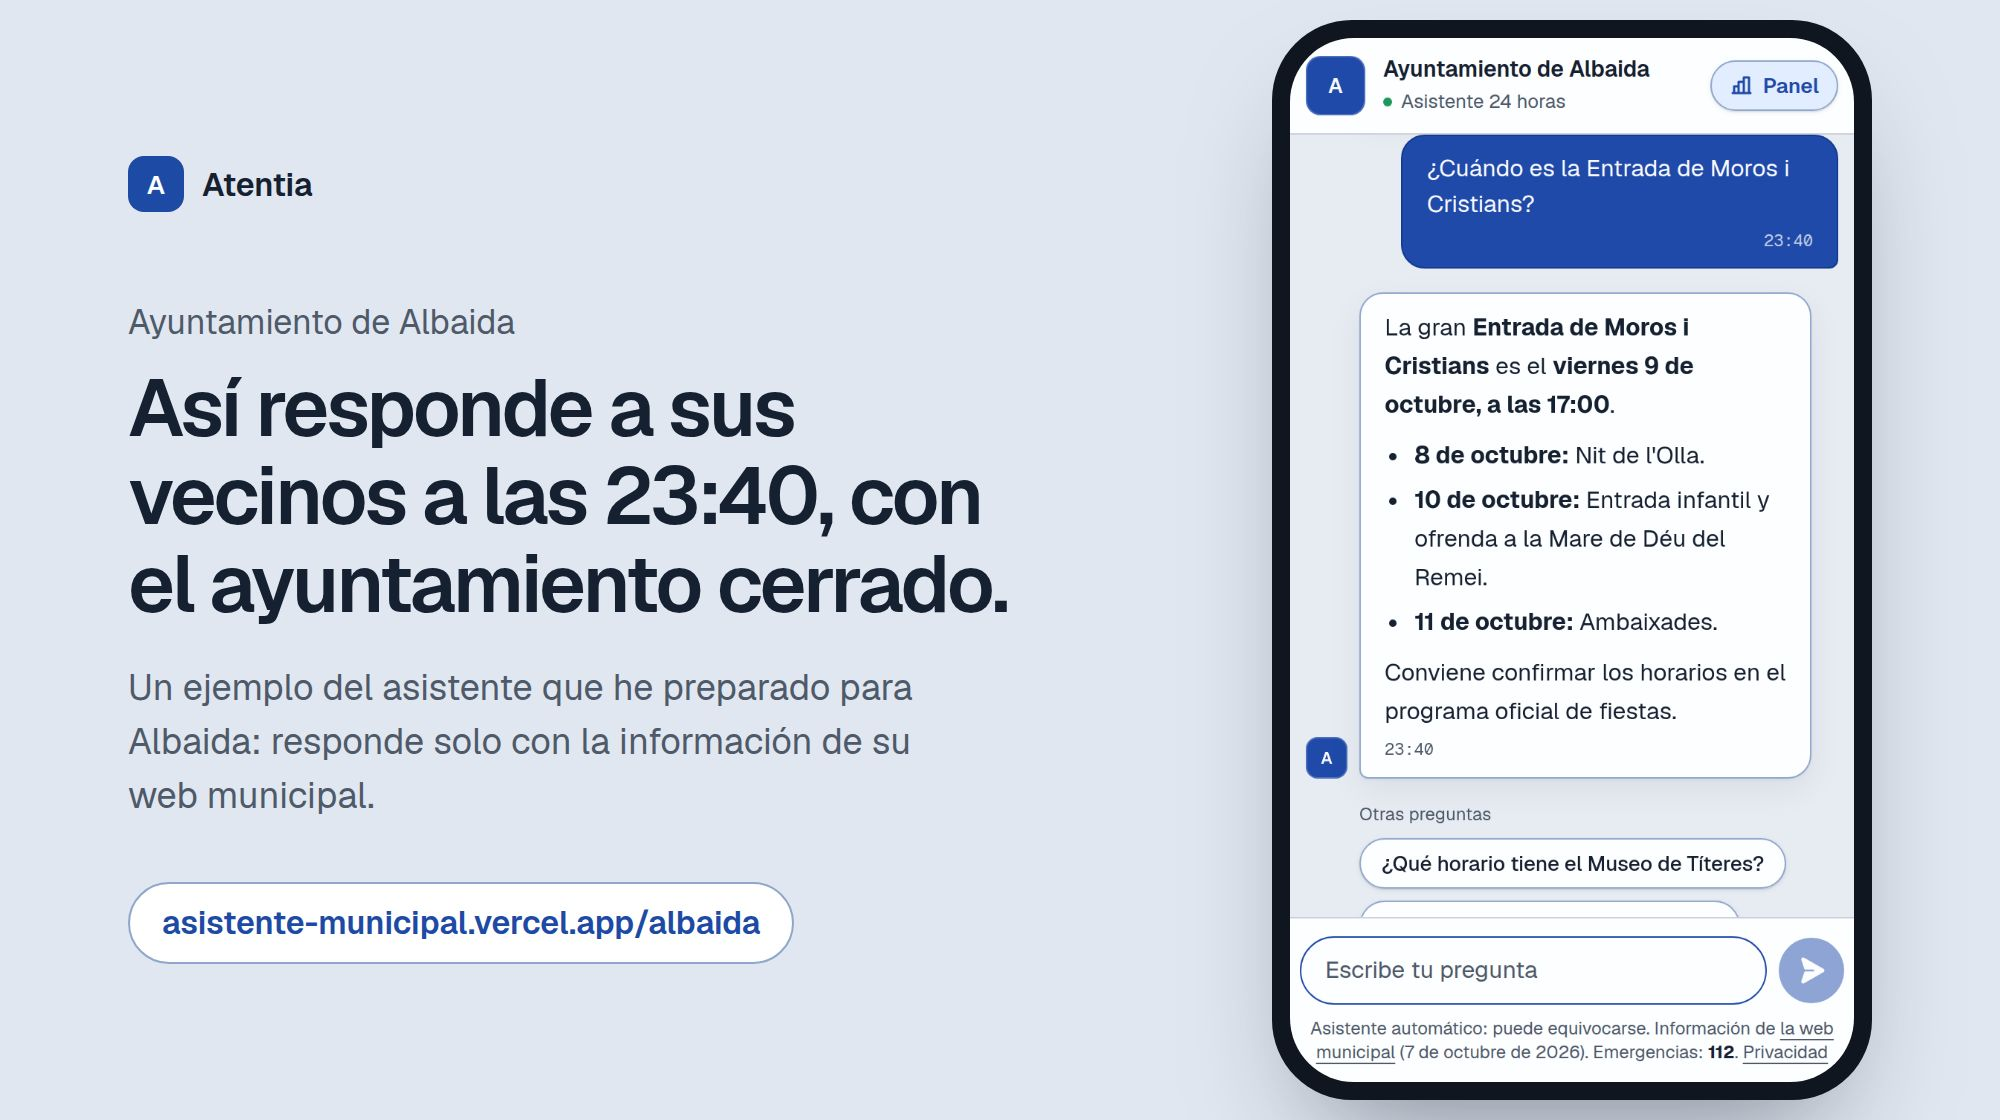
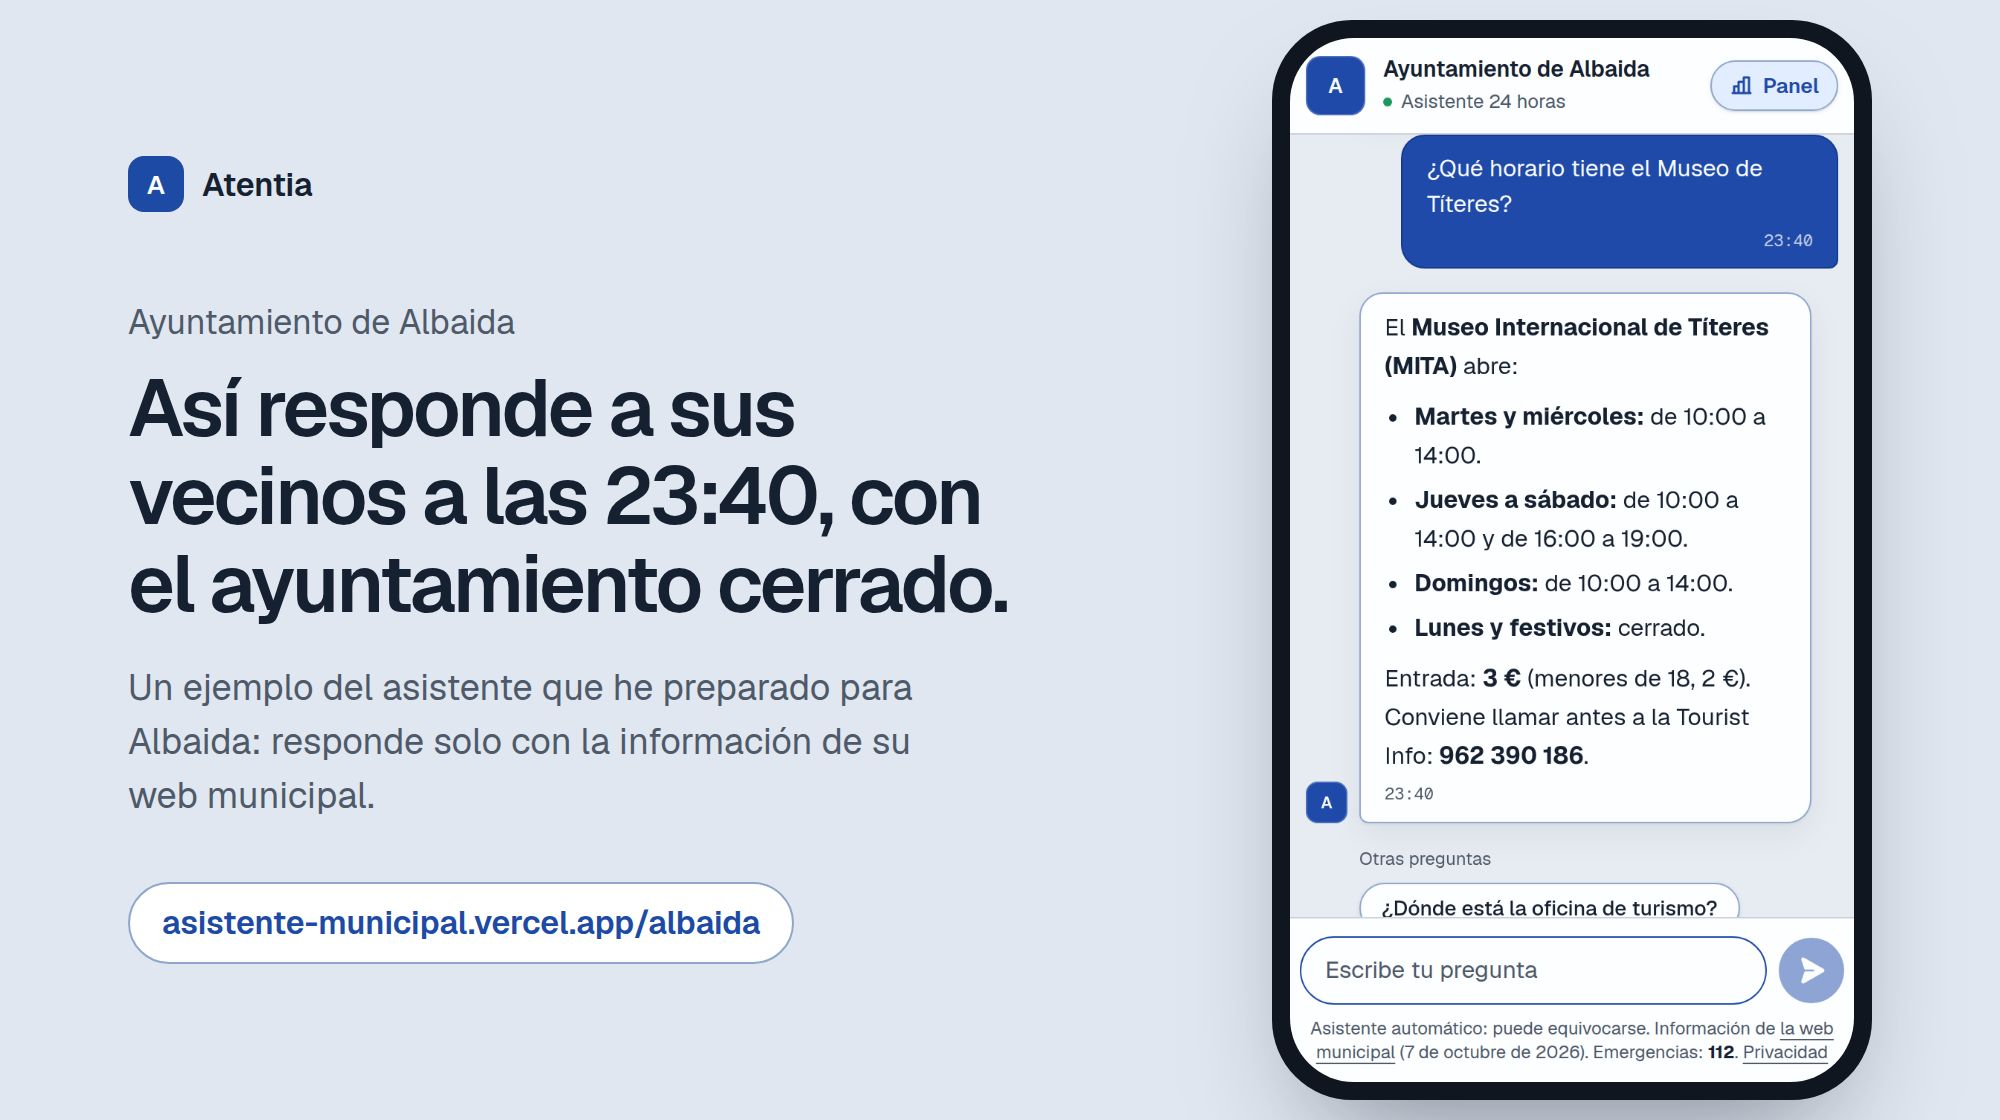
Valencia: alcaldes y correos confirmados; Albaida abre con el Museo de Títeres
La pregunta de la Entrada de Moros i Cristians caduca el 11 de octubre:
la demo y la imagen del correo de Albaida empiezan ahora por el MITA.

Claude-Session: https://claude.ai/code/session_01Wt1DLUpgXsemtAxLkKHvqP

Changed region(s): [[0.651, 0.2812, 0.93, 0.8125], [0.713, 0.125, 0.899, 0.1875]]

diff --git a/prospectos/ayuntamientos/albaida/README.md b/prospectos/ayuntamientos/albaida/README.md
@@ -25,7 +25,7 @@
 
 **Comprueba antes de escribir o llamar:**
 
-- Correo: en directorios aparece albaida@albaida.org, pero la web es albaida.es. Pídelo en la llamada.
+- Correo de alcaldía: alcaldia@albaida.es (de la web municipal).
 - Teléfono y dirección: salen de directorios; confírmalos.
 - Horario de atención del ayuntamiento: no lo he encontrado.
 
@@ -45,11 +45,11 @@ Guion completo y respuestas a pegas: [../GUION.md](../GUION.md).
 
 **Con el alcalde o el concejal:**
 
-> «Responde a vecinos y visitantes a cualquier hora, por ejemplo “¿Cuándo es la Entrada de Moros i Cristians?”, da cita previa y recoge avisos como una farola fundida. ¿Qué es lo que más les preguntan por teléfono?»
+> «Responde a vecinos y visitantes a cualquier hora, por ejemplo “¿Qué horario tiene el Museo de Títeres?”, da cita previa y recoge avisos como una farola fundida. ¿Qué es lo que más les preguntan por teléfono?»
 
 ## Imagen para el correo
 
-`atentia-albaida.jpg`: el asistente respondiendo «¿Cuándo es la Entrada de Moros i Cristians?» a las 23:40.
+`atentia-albaida.jpg`: el asistente respondiendo «¿Qué horario tiene el Museo de Títeres?» a las 23:40.
 
 ## Vídeo
 

diff --git a/prospectos/ayuntamientos/README.md b/prospectos/ayuntamientos/README.md
@@ -27,7 +27,7 @@ Datos de búsquedas del 7 de octubre de 2026. En Valencia hay más competencia: 
 | # | Pueblo | Habitantes | Teléfono | Alcalde/sa | Demo |
 |---|---|---|---|---|---|
 | 1 | [Simat de la Valldigna](simat-de-la-valldigna/README.md) | unos 3.300 | 962 810 007 | Sebastián Mahiques Morant | [/simat-de-la-valldigna](https://asistente-municipal.vercel.app/simat-de-la-valldigna) |
-| 2 | [Bocairent](bocairent/README.md) | unos 4.100 | 962 350 014 | Por confirmar | [/bocairent](https://asistente-municipal.vercel.app/bocairent) |
+| 2 | [Bocairent](bocairent/README.md) | unos 4.100 | 962 350 014 | Xavier Molina Martí | [/bocairent](https://asistente-municipal.vercel.app/bocairent) |
 | 3 | [Moixent](moixent/README.md) | unos 4.400 | 962 295 010 | Guillermo Jorques Lladosa | [/moixent](https://asistente-municipal.vercel.app/moixent) |
 | 4 | [Ayora](ayora/README.md) | unos 5.200 | 962 191 025 | José Vicente Anaya Roig | [/ayora](https://asistente-municipal.vercel.app/ayora) |
 | 5 | [El Puig de Santa Maria](el-puig/README.md) | unos 9.500 | 961 470 003 | Marc Oriola Pla | [/el-puig](https://asistente-municipal.vercel.app/el-puig) |

diff --git a/prospectos/ayuntamientos/bocairent/README.md b/prospectos/ayuntamientos/bocairent/README.md
@@ -13,10 +13,10 @@
 | | |
 |---|---|
 | Teléfono | **962 350 014** |
-| Correo | No confirmado: pídelo en la llamada |
+| Correo | info@bocairent.es |
 | Dirección | Plaça de l'Ajuntament, 20. 46880 Bocairent |
 | Horario | No encontrado |
-| Alcalde/sa | No confirmado: en 2023 tomó posesión Eliseu Alegre Bolet y en 2024 aparece Xavier Molina Martí firmando como alcalde |
+| Alcalde/sa | Xavier Molina Martí |
 | Habitantes | unos 4.100 |
 | Web | https://www.bocairent.es/ |
 | Demo | https://asistente-municipal.vercel.app/bocairent |
@@ -25,8 +25,7 @@
 
 **Comprueba antes de escribir o llamar:**
 
-- Alcalde: los datos no coinciden (Eliseu Alegre en 2023, Xavier Molina en 2024). Pregunta en la llamada.
-- Correo: no lo he encontrado en la web oficial; en directorios aparece correo@bocairent.es. Pídelo en la llamada.
+- Correo: info@bocairent.es es el general; pide el de alcaldía en la llamada.
 - Horario de atención del ayuntamiento: no lo he encontrado.
 - Teléfono 962 350 014 y dirección: salen de directorios, no de la web municipal.
 

diff --git a/prospectos/ayuntamientos/ayora/README.md b/prospectos/ayuntamientos/ayora/README.md
@@ -26,7 +26,7 @@
 **Comprueba antes de escribir o llamar:**
 
 - Alcalde: José Vicente Anaya Roig sale en directorios; confírmalo.
-- Correo de alcaldía: en directorios aparece alcalde@ayora.es; el general es registro@ayora.es.
+- Correo: el correo va a alcalde@ayora.es; el general es registro@ayora.es.
 - Horario de atención del ayuntamiento: no lo he encontrado.
 
 **Competencia en Valencia:** la Diputació ofrece a los pueblos el asistente «ALI» de Alicante (orientado a trámites de la sede electrónica) y prepara asistentes con el proyecto Revital-IA; CivitPhone ya está en 12 municipios. Pregunta: «¿Están en el programa de la Diputación?». Si dicen que sí, preséntalo como complemento: responde sobre el pueblo (turismo, horarios, fiestas), da cita previa y tiene panel, y está listo ya.

diff --git a/prospectos/ayuntamientos/el-puig/README.md b/prospectos/ayuntamientos/el-puig/README.md
@@ -16,7 +16,7 @@
 | Correo | alcaldia@elpuig.org |
 | Dirección | Plaça de l'Ajuntament, 1. 46540 El Puig de Santa Maria |
 | Horario | No encontrado |
-| Alcalde/sa | Marc Oriola Pla (PSOE), por el pacto de alternancia con Compromís (confírmalo) |
+| Alcalde/sa | Marc Oriola Pla (PSOE), por el pacto de alternancia con Compromís |
 | Habitantes | unos 9.500 |
 | Web | https://www.elpuig.es/ |
 | Demo | https://asistente-municipal.vercel.app/el-puig |
@@ -25,7 +25,6 @@
 
 **Comprueba antes de escribir o llamar:**
 
-- Alcalde: hasta 2025 fue Vicent Porta (Compromís); por el pacto, la alcaldía pasó al PSOE. Marc Oriola Pla aparece como alcalde: confírmalo.
 - Horario de atención del ayuntamiento: no lo he encontrado.
 - También existe secretaria@elpuig.org para poner en copia.
 
